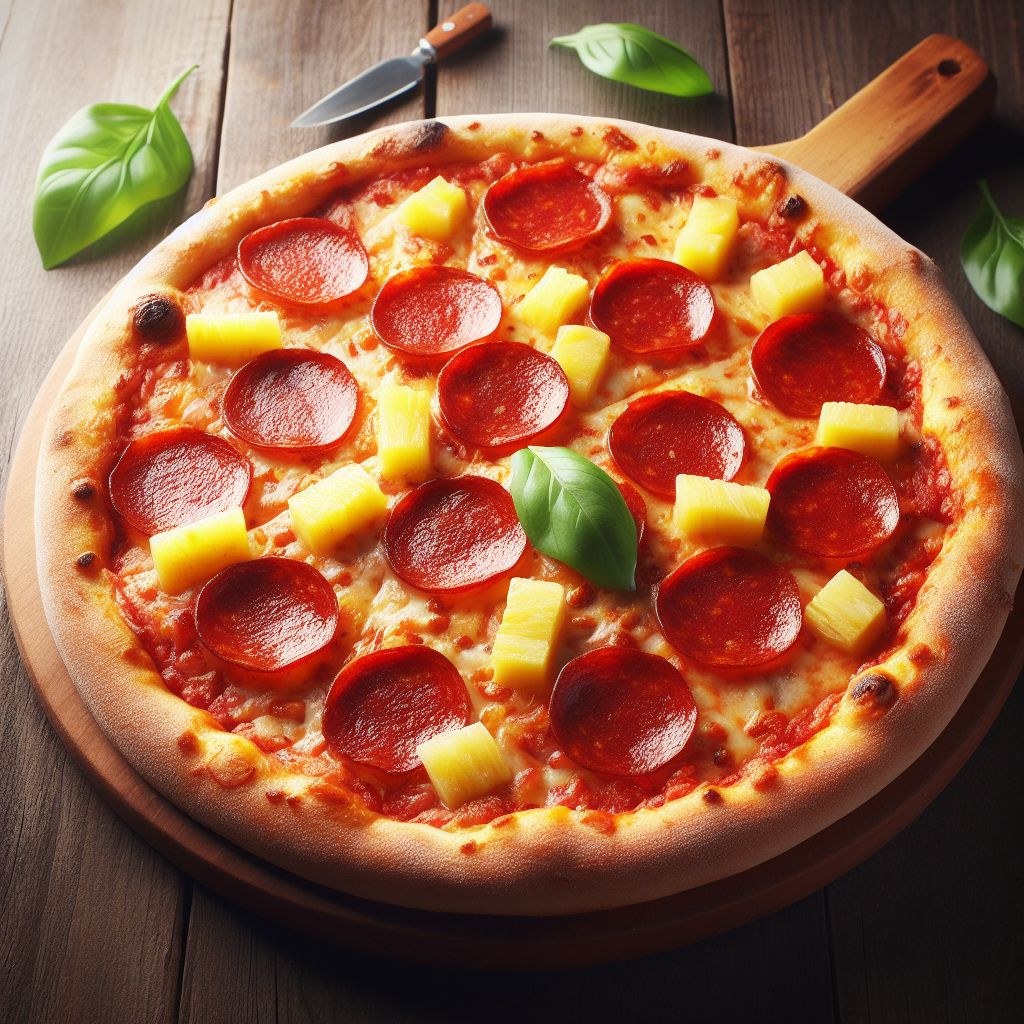
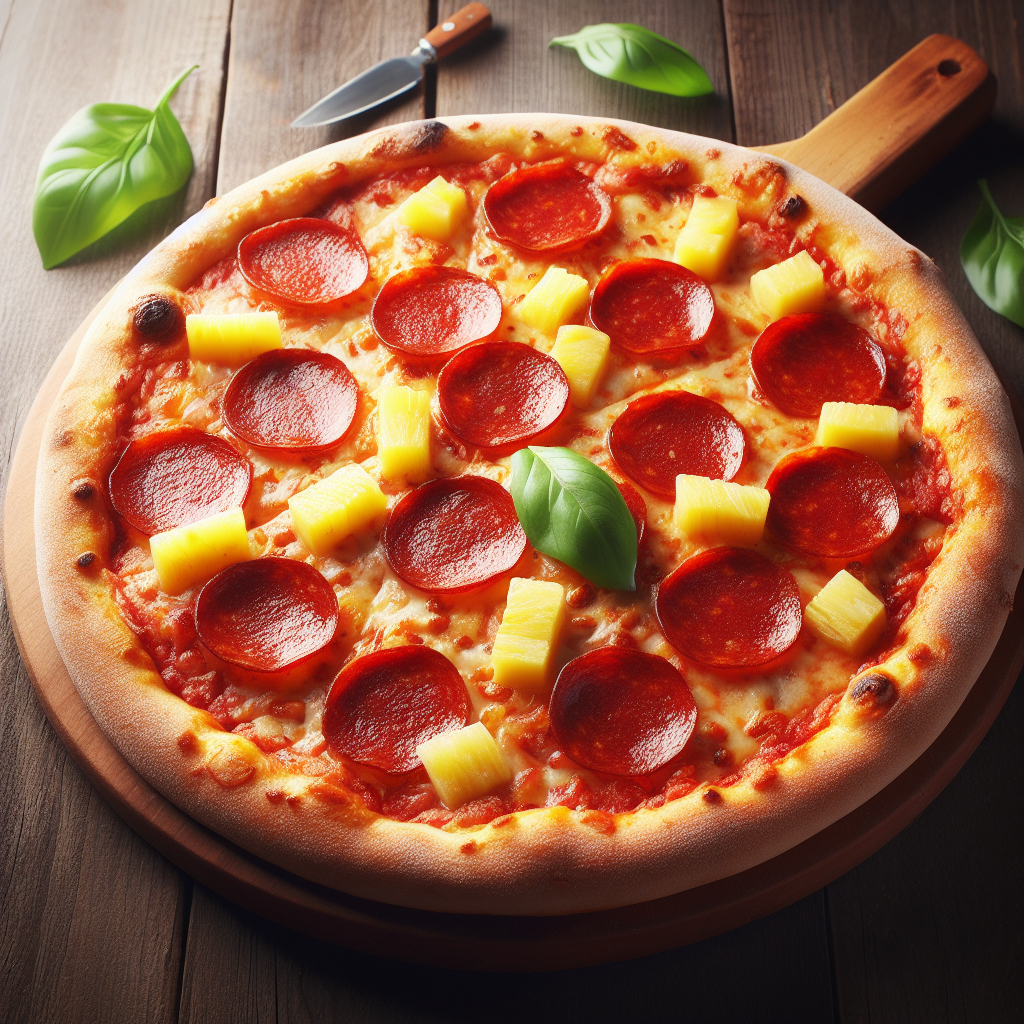
added picture

diff --git a/README.md b/README.md
@@ -4,9 +4,11 @@ Capstone Video Project, MIT 15.089 Analytics Capstone
 
 Team Members: [Jason Jia](https://www.linkedin.com/in/jasonjiajs/), [Stephanie Sha](www.linkedin.com/in/ousha/)
 
-<div align="left">
-    <img src="/Pizza.jpeg" width="400px"</img> 
-</div>
+<p float="left">
+  <img src="/pizza.jpeg" width="400px" />
+  <img src="/mr_pineapple_pepperoni.jpeg" width="400px" /> 
+</p>
 
-# Summary
+## Summary
+
 We created a marketing and operations plan for Mr. Pineapple Pepperoni's pizza restaurant in 24 hours.
